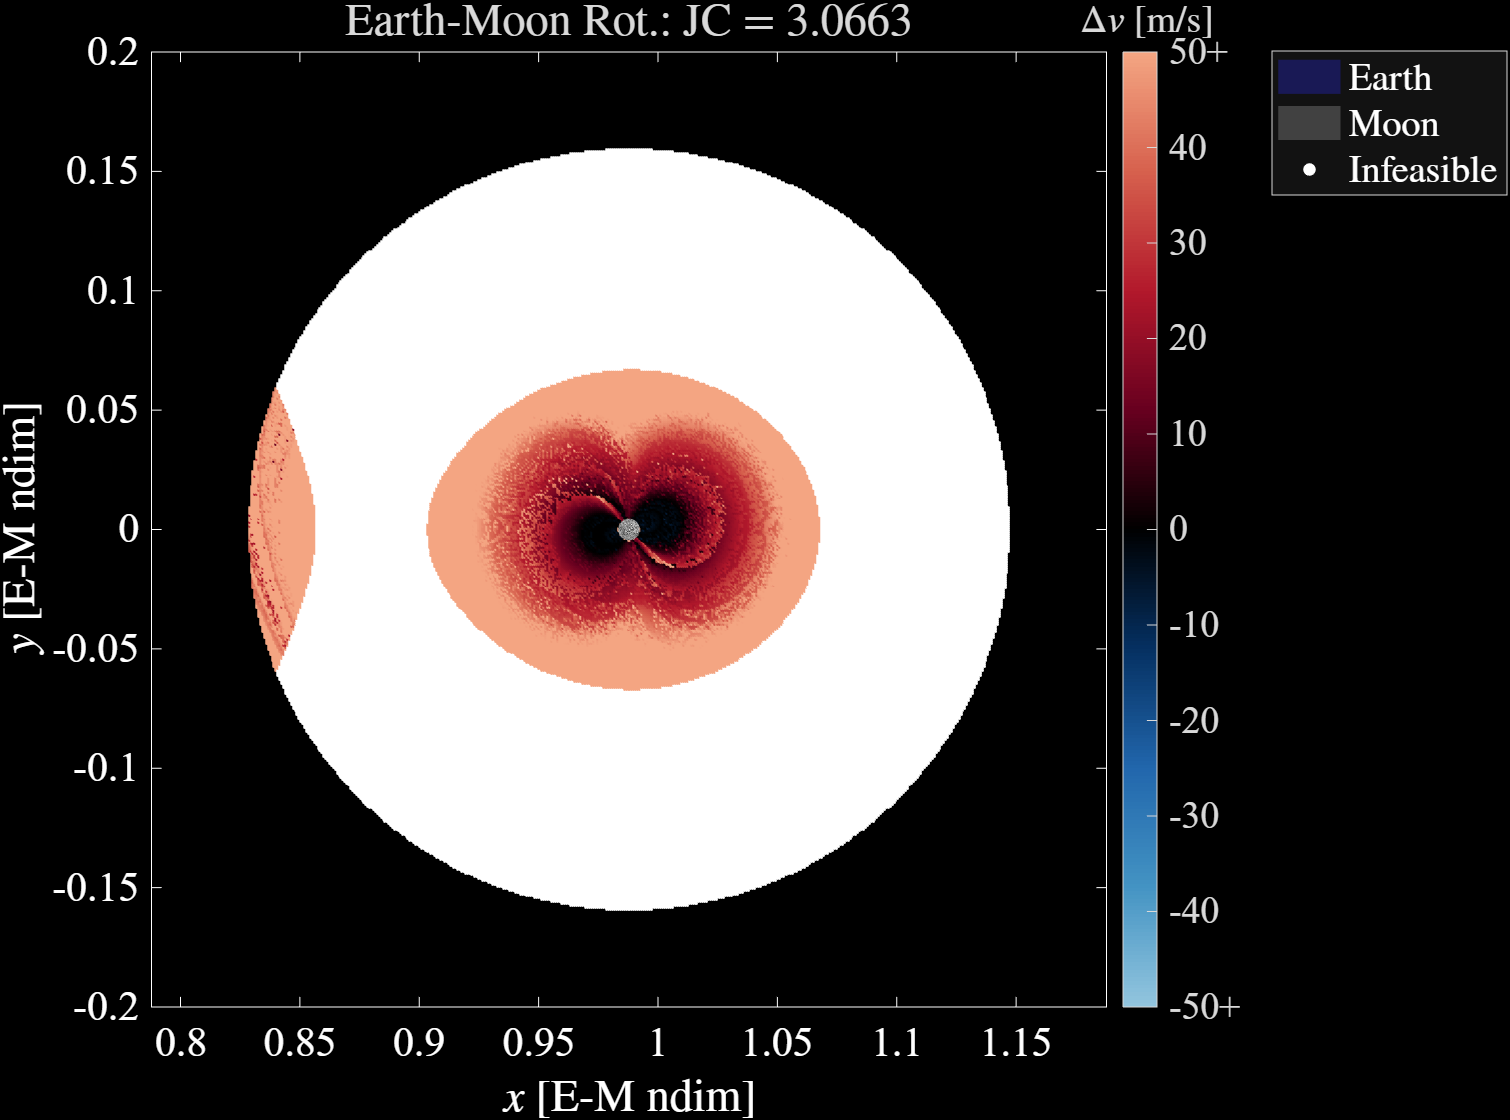
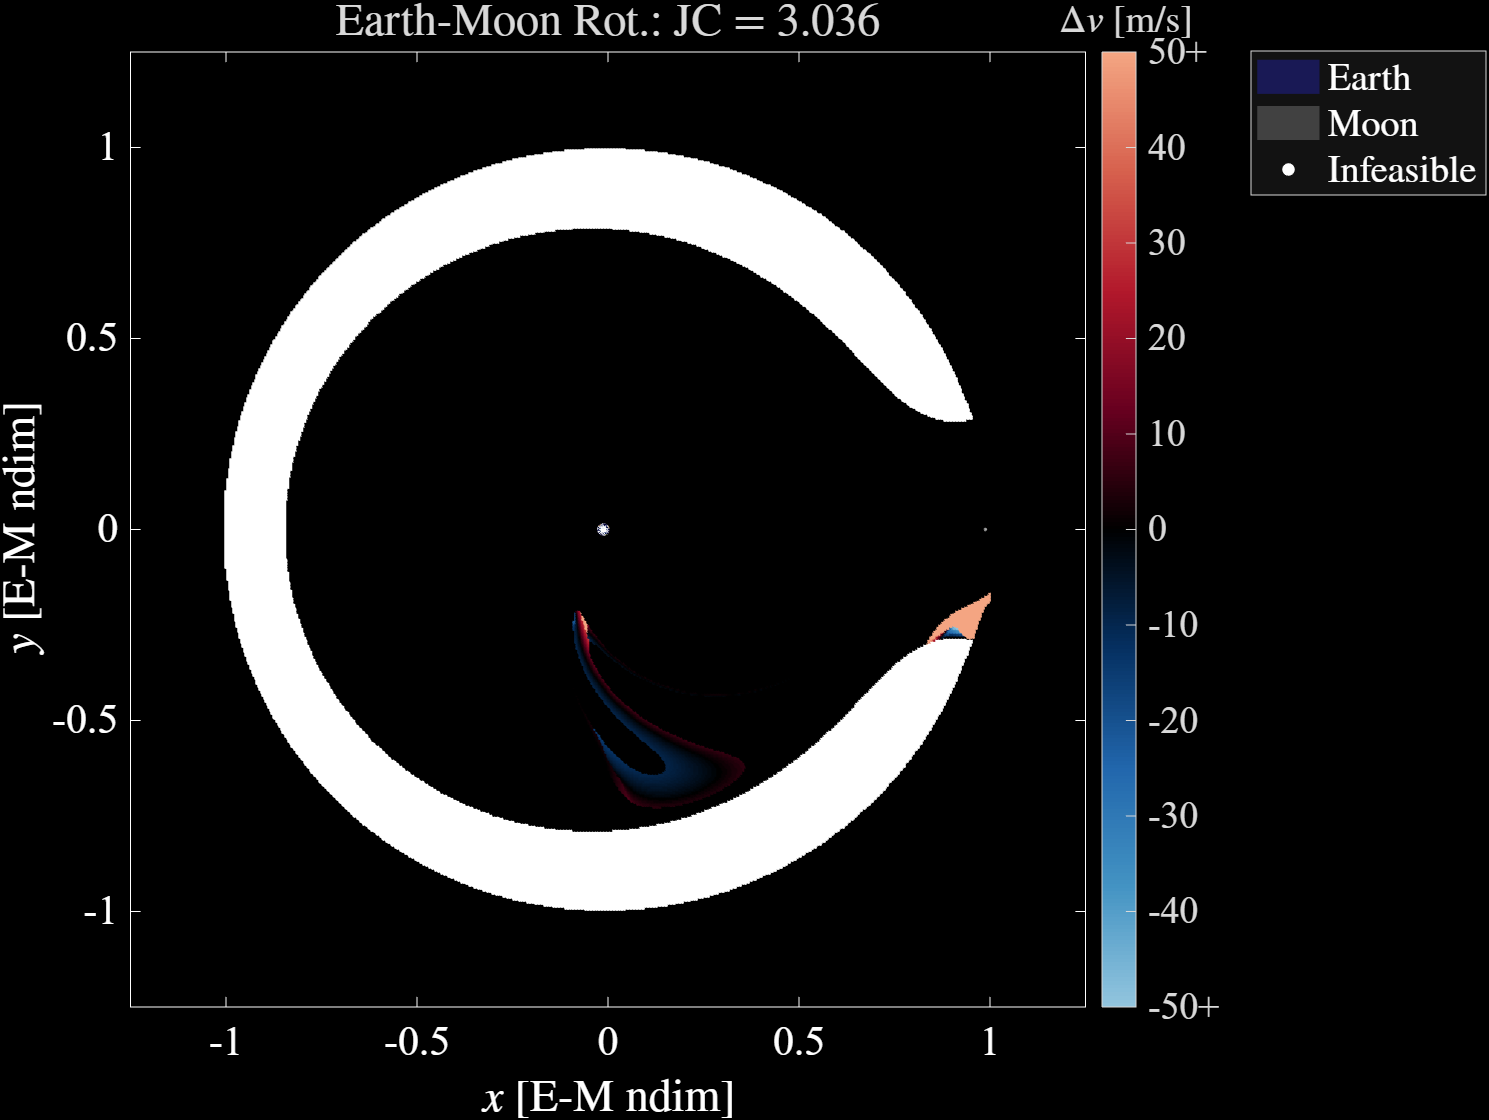
Updated EscapeCR3BP script

diff --git a/EscapeCR3BP.m b/EscapeCR3BP.m
@@ -1,12 +1,12 @@
 %%% EscapeCR3BP.jl
 %%% Jonathan LeFevre Richmond
 %%% C: 16 June 2026
-%%% U: 24 September 2026
+%%% U: 1 October 2026
 
 clear
 
 %% Import Map Data
-mapsData = load('../PhDScripts/Output/ApseMaps/CR3BP_2_peri_retro_500_3.0663.mat');
+mapsData = load('../PhDScripts/Output/ApseMaps/CR3BP_1_peri_pro_500_3.036.mat');
 mapFields = fieldnames(mapsData);
 map = mapsData.(mapFields{1});
 primary = map.primary;
@@ -291,25 +291,221 @@ colorMap(10,:) = [1, 1, 1]; % ZVC
 odeCR3BPEM = @(t,r) ODE_CR3BP(t, r, muEM);
 odeOpts = odeset('RelTol', 1E-12, 'AbsTol', 1E-12);
 
+%% Import Assist Data
+assistOrbitData = load('../PhDScripts/Output/AssistOrbitEscapeCR3BP.mat');
+orbitIC = assistOrbitData.orbitIC;
+orbitP = assistOrbitData.orbitP;
+qOrbits = assistOrbitData.orbitStates;
+qMans = assistOrbitData.manifoldStates;
+t0s = assistOrbitData.initialTimes;
+q0s = assistOrbitData.initialStates;
+
+qPeri0 = assistOrbitData.qPeri0;
+tPeri0 = assistOrbitData.tPeri0;
+Deltav1 = assistOrbitData.Deltav1;
+qPeri1 = assistOrbitData.qPeri1;
+tPeri1 = assistOrbitData.tPeri1;
+JC1 = assistOrbitData.JC1;
+Deltav2 = assistOrbitData.Deltav2;
+qPeri2 = assistOrbitData.qPeri2;
+tPeri2 = assistOrbitData.tPeri2;
+JC2 = assistOrbitData.JC2;
+Deltav3 = assistOrbitData.Deltav3;
+qPeri3 = assistOrbitData.qPeri3;
+tPeri3 = assistOrbitData.tPeri3;
+JC3 = assistOrbitData.JC3;
+Deltav4 = assistOrbitData.Deltav4;
+qPeri4 = assistOrbitData.qPeri4;
+tPeri4 = assistOrbitData.tPeri4;
+
+%% Assist Escape Sample
+sampleIdx = 1;
+solOrbit = ode89(odeCR3BPEM, [0 orbitP], orbitIC, odeOpts);
+
+% tInterp = [0:(0.1*3600*24/tstarEM):(t0s(sampleIdx)+12*pi), t0s(sampleIdx)+12*pi];
+% t0 = [tInterp(tInterp < periTimes(trajIdx)+trajt1), periTimes(trajIdx)+trajt1];
+% t1 = [periTimes(trajIdx)+trajt1, tInterp((tInterp > periTimes(trajIdx)+trajt1) & (tInterp < periTimes(trajIdx)+trajt1+trajt2)), periTimes(trajIdx)+trajt1+trajt2];
+% t15 = [periTimes(trajIdx)+trajt1, tInterp(tInterp > periTimes(trajIdx)+trajt1)];
+% t2 = [periTimes(trajIdx)+trajt1+trajt2, tInterp(tInterp > periTimes(trajIdx)+trajt1+trajt2)];
+
+% solOrbit = ode89(odeCR3BPEM, [0 tOrbit], qOrbit, odeOpts);
+% disp("Initial State: ["+trajq0(1)+", "+trajq0(2)+", "+trajq0(3)+", "+trajq0(4)+", "+trajq0(5)+", "+trajq0(6)+"]")
+% disp("Original departure energy:"+trajEscE)
+% disp("Original departure velocity:"+trajEscv)
+% tau = 12*pi;
+% sol = ode89(odeCR3BPEM, [0 periTimes(trajIdx)+12*pi], initialStates(:,trajIdx), odeOpts);
+% q = deval(sol, tInterp);
+% sol0 = ode89(odeCR3BPEM, [0 periTimes(trajIdx)+trajt1], initialStates(:,trajIdx), odeOpts);
+% q0 = deval(sol0, t0);
+% disp("Delta-v 1: "+trajDeltav1*1000*lstarEM/tstarEM+" m/s")
+% disp("Indirect State: ["+trajq1(1)+", "+trajq1(2)+", "+trajq1(3)+", "+trajq1(4)+", "+trajq1(5)+", "+trajq1(6)+"]")
+% if trajt2 > 0
+%     sol1 = ode89(odeCR3BPEM, [periTimes(trajIdx)+trajt1 periTimes(trajIdx)+trajt1+trajt2], trajq1, odeOpts);
+%     q1 = deval(sol1, t1);
+% end
+% sol15 = ode89(odeCR3BPEM, [periTimes(trajIdx)+trajt1 periTimes(trajIdx)+12*pi], trajq1, odeOpts);
+% q15 = deval(sol15, t15);
+% disp("Delta-v 2: "+trajDeltav2*1000*lstarEM/tstarEM+" m/s")
+% disp("Escape State: ["+trajq2(1)+", "+trajq2(2)+", "+trajq2(3)+", "+trajq2(4)+", "+trajq2(5)+", "+trajq2(6)+"]")
+% sol2 = ode89(odeCR3BPEM, [periTimes(trajIdx)+trajt1+trajt2 periTimes(trajIdx)+12*pi], trajq2, odeOpts);
+% q2 = deval(sol2, t2);
+% disp("New JC: "+trajNewJC)
+% disp("New departure energy:"+trajNewEscE)
+% disp("New departure velocity:"+trajNewEscv)
+% disp("Departure metric:"+(trajNewEscv-trajEscv)/((abs(trajDeltav1)+abs(trajDeltav2))*lstarEM/tstarEM))
+
+solMan = ode89(odeCR3BPEM, [0 t0s(sampleIdx)], qMans(:,sampleIdx), odeOpts);
+solTraj0 = ode89(odeCR3BPEM, [0 12*pi], q0s(:,sampleIdx), odeOpts);
+solArc0 = ode89(odeCR3BPEM, [0 tPeri0], q0s(:,sampleIdx), odeOpts);
+if tPeri1 > 0
+    solArc1 = ode89(odeCR3BPEM, [0 tPeri1], qPeri0, odeOpts);
+end
+solTraj1 = ode89(odeCR3BPEM, [0 12*pi], qPeri1, odeOpts);
+if tPeri2 > 0
+    solArc2 = ode89(odeCR3BPEM, [0 tPeri2], qPeri1, odeOpts);
+end
+solTraj2 = ode89(odeCR3BPEM, [0 12*pi], qPeri2, odeOpts);
+if tPeri3 > 0
+    solArc3 = ode89(odeCR3BPEM, [0 tPeri3], qPeri2, odeOpts);
+end
+solTraj3 = ode89(odeCR3BPEM, [0 12*pi], qPeri3, odeOpts);
+solArc4 = ode89(odeCR3BPEM, [0 tPeri4], qPeri3, odeOpts);
+solTraj4 = ode89(odeCR3BPEM, [0 12*pi], qPeri4, odeOpts);
+
+disp("Delta-v 1: "+Deltav1*1000*lstarEM/tstarEM+" m/s")
+disp("JC 1: "+JC1)
+disp("Delta-v 2: "+Deltav2*1000*lstarEM/tstarEM+" m/s")
+disp("JC 2: "+JC2)
+disp("Delta-v 3: "+Deltav3*1000*lstarEM/tstarEM+" m/s")
+disp("JC 3: "+JC3)
+disp("Delta-v 4: "+Deltav4*1000*lstarEM/tstarEM+" m/s")
+
+% fig18 = figure("Position", [200 100 1200 750]);
+% hold on
+% Earth = plot3DBody("Earth", RE/lstarEM, [-muEM, 0, 0]);
+% set(Earth, 'DisplayName', "Earth")
+% Moon = plot3DBody("Moon", Rm/lstarEM, [1-muEM, 0, 0]);
+% set(Moon, 'DisplayName', "Moon")
+% scatter3(a1EM, 0, 0, 20, 'r', 'filled', 'd', 'DisplayName', "EM $L_{1}$")
+% scatter3(a2EM, 0, 0, 20, [1 0.5 0], 'filled', 'd', 'DisplayName', "EM $L_{2}$")
+% plot3(solOrbit.y(1,:), solOrbit.y(2,:), solOrbit.y(3,:), 'g:', 'DisplayName', "Orbit")
+% % scatter3(qOrbits(1,:), qOrbits(2,:), qOrbits(3,:), 20, 'r', 'filled', 'DisplayName', "Orbit")
+% scatter3(qMans(1,:), qMans(2,:), qMans(3,:), 20, 'r', 'filled', 'DisplayName', "Step-off")
+% scatter3(q0s(1,:), q0s(2,:), q0s(3,:), 20, 'g', 'filled', 'DisplayName', "ICs")
+% axis equal
+% axis([-1.25 1.25 -1.25 1.25])
+% grid on
+% xlabel("$x$ [E-M ndim]", 'Interpreter', 'latex')
+% ylabel("$y$ [E-M ndim]", 'Interpreter', 'latex')
+% title("Earth-Moon Rot.", 'Interpreter', 'latex')
+% leg18 = legend('Location', 'bestoutside', 'Interpreter', 'latex');
+% drawnow;
+% set(leg18.EntryContainer.NodeChildren(end).Icon.Transform.Children.Children, 'ColorData', uint8([25; 25; 85; 255]))
+% set(gca, 'Color', 'k');
+% view(2)
+% hold off
+% ax19 = gca;
+% ax19.SortMethod = 'childorder';
+% % exportgraphics(fig19, 'EscapeCR3BP_19.png','BackgroundColor', 'k')
+
+fig19 = figure("Position", [200 100 1200 750]);
+hold on
+Earth = plot3DBody("Earth", RE/lstarEM, [-muEM, 0, 0]);
+set(Earth, 'DisplayName', "Earth")
+Moon = plot3DBody("Moon", Rm/lstarEM, [1-muEM, 0, 0]);
+set(Moon, 'DisplayName', "Moon")
+scatter3(a1EM, 0, 0, 20, 'r', 'filled', 'd', 'DisplayName', "EM $L_{1}$")
+scatter3(a2EM, 0, 0, 20, [1 0.5 0], 'filled', 'd', 'DisplayName', "EM $L_{2}$")
+% plot3(solOrbit.y(1,:), solOrbit.y(2,:), solOrbit.y(3,:), 'g:', 'DisplayName', "Orbit")
+p191 = plot3WithArrows(solOrbit.y(1,:), solOrbit.y(2,:), solOrbit.y(3,:), 'LineType', ':', 'Color', 'g', 'NumArrows', 2, 'ArrowScale', 5);
+set(p191, 'DisplayName', "Orbit")
+scatter3(qMans(1,sampleIdx), qMans(2,sampleIdx), qMans(3,sampleIdx), 20, 'r', 'filled', 'DisplayName', "Step-off")
+% scatter3(q0s(1,sampleIdx), q0s(2,sampleIdx), q0s(3,sampleIdx), 20, 'g', 'filled', 'DisplayName', "IC")
+% plot3(solMan.y(1,:), solMan.y(2,:), solMan.y(3,:), 'm', 'DisplayName', "Orig. Traj.")
+p192 = plot3WithArrows(solMan.y(1,:), solMan.y(2,:), solMan.y(3,:), 'Color', 'm', 'NumArrows', 2, 'ArrowScale', 5);
+set(p192, 'DisplayName', "Orig. Traj.")
+% % plot3(solTraj0.y(1,:), solTraj0.y(2,:), solTraj0.y(3,:), 'm', 'HandleVisibility', 'off')
+% p193 = plot3WithArrows(solTraj0.y(1,:), solTraj0.y(2,:), solTraj0.y(3,:), 'Color', 'm', 'NumArrows', 10, 'ArrowScale', 1);
+% set(p193, 'HandleVisibility', 'off')
+% plot3(solArc0.y(1,:), solArc0.y(2,:), solArc0.y(3,:), 'm', 'HandleVisibility', 'off')
+p194 = plot3WithArrows(solArc0.y(1,:), solArc0.y(2,:), solArc0.y(3,:), 'Color', 'm', 'NumArrows', 2, 'ArrowScale', 3);
+set(p194, 'HandleVisibility', 'off')
+if tPeri1 > 0
+    % plot3(solArc1.y(1,:), solArc1.y(2,:), solArc1.y(3,:), 'm', 'HandleVisibility', 'off')
+    p195 = plot3WithArrows(solArc1.y(1,:), solArc1.y(2,:), solArc1.y(3,:), 'Color', 'm', 'NumArrows', 2, 'ArrowScale', 3);
+    set(p195, 'HandleVisibility', 'off')
+end
+if tPeri2 > 0
+    plot3(solArc2.y(1,:), solArc2.y(2,:), solArc2.y(3,:), 'b', 'DisplayName', "Esc. Traj.")
+    p196 = plot3WithArrows(solArc2.y(1,:), solArc2.y(2,:), solArc2.y(3,:), 'Color', 'b', 'NumArrows', 5, 'ArrowScale', 1.5);
+    set(p196, 'HandleVisibility', 'off')
+    % plot3(solTraj1.y(1,:), solTraj1.y(2,:), solTraj1.y(3,:), 'b', 'HandleVisibility', 'off')
+    p197 = plot3WithArrows(solTraj1.y(1,:), solTraj1.y(2,:), solTraj1.y(3,:), 'Color', 'b', 'NumArrows', 10, 'ArrowScale', 0.25);
+    set(p197, 'HandleVisibility', 'off')
+end
+if tPeri3 > 0
+    plot3(solArc3.y(1,:), solArc3.y(2,:), solArc3.y(3,:), 'c', 'DisplayName', "Flyby Traj.")
+    % p198 = plot3WithArrows(solArc3.y(1,:), solArc3.y(2,:), solArc3.y(3,:), 'Color', 'c', 'NumArrows', 2, 'ArrowScale', 3);
+    % set(p198, 'HandleVisibility', 'off')
+    % plot3(solTraj2.y(1,:), solTraj2.y(2,:), solTraj2.y(3,:), 'c', 'HandleVisibility', 'off')
+    p199 = plot3WithArrows(solTraj2.y(1,:), solTraj2.y(2,:), solTraj2.y(3,:), 'Color', 'c', 'NumArrows', 10, 'ArrowScale', 0.25);
+    set(p199, 'HandleVisibility', 'off')
+end
+plot3(solArc4.y(1,:), solArc4.y(2,:), solArc4.y(3,:), 'y', 'DisplayName', "Closer Flyby Traj.")
+% plot3(solTraj3.y(1,:), solTraj3.y(2,:), solTraj3.y(3,:), 'y', 'HandleVisibility', 'off')
+p1911 = plot3WithArrows(solTraj3.y(1,:), solTraj3.y(2,:), solTraj3.y(3,:), 'Color', 'y', 'NumArrows', 10, 'ArrowScale', 0.15);
+set(p1911, 'HandleVisibility', 'off')
+% plot3(solTraj4.y(1,:), solTraj4.y(2,:), solTraj4.y(3,:), 'g', 'DisplayName', "Final Traj.")
+p1912 = plot3WithArrows(solTraj4.y(1,:), solTraj4.y(2,:), solTraj4.y(3,:), 'Color', 'g', 'NumArrows', 10, 'ArrowScale', 0.05);
+set(p1912, 'DisplayName', "Final Traj.")
+% scatter3(qPeri0(1), qPeri0(2), qPeri0(3), 20, 'y', 'filled', 'DisplayName', "Peri. 0")
+if abs(Deltav1) > 0
+    scatter3(qPeri1(1), qPeri1(2), qPeri1(3), 50, 'w', 'filled', '^', 'DisplayName', "Man. 1")
+end
+if abs(Deltav2) > 0
+    scatter3(qPeri2(1), qPeri2(2), qPeri2(3), 50, 'w', 'filled', 's', 'DisplayName', "Man. 2")
+end
+if abs(Deltav3) > 0
+    scatter3(qPeri3(1), qPeri3(2), qPeri3(3), 50, 'w', 'filled', '*', 'DisplayName', "Man. 3")
+end
+if abs(Deltav4) > 0
+    scatter3(qPeri4(1), qPeri4(2), qPeri4(3), 50, 'w', 'filled', 'd', 'DisplayName', "Man. 4")
+end
+axis equal
+% axis([-1.25 1.25 -1.25 1.25])
+grid on
+xlabel("$x$ [E-M ndim]", 'Interpreter', 'latex')
+ylabel("$y$ [E-M ndim]", 'Interpreter', 'latex')
+title("Earth-Moon Rot.", 'Interpreter', 'latex')
+leg19 = legend('Location', 'bestoutside', 'Interpreter', 'latex');
+drawnow;
+set(leg19.EntryContainer.NodeChildren(end).Icon.Transform.Children.Children, 'ColorData', uint8([25; 25; 85; 255]))
+set(gca, 'Color', 'k');
+view(2)
+hold off
+ax19 = gca;
+ax19.SortMethod = 'childorder';
+% exportgraphics(fig19, 'EscapeCR3BP_19.png','BackgroundColor', 'k')
+
 %% Test Trajectory
-% xSample = 0.916908;
-% ySample = 0.0757515;
+% xSample = 0.940154;
+% ySample = -0.0476954;
 % idx = find((abs(xGrid-xSample) < 1E-5) & (abs(yGrid-ySample) < 1E-5))
 % Perigee
 % idx = 46420 % Direct
 % idx = 124010 % Indirect
 % idx = 133530 % Failure
 % Perilune
-idx = 49642 % Direct
+% idx = 49642 % Direct
 % idx = 113252 % Indirect
 % idx = 98165 % Failure
 
-% % q = map.q(:,idx);
-% q = initialStates(:,trajIdx);
+% q = map.q(:,idx);
+% % q = initialStates(:,trajIdx);
 % disp("Sample IC: ["+q(1)+", "+q(2)+", "+q(3)+", "+q(4)+", "+q(5)+", "+q(6)+"]")
-% tau = 4*pi;
+% tau = -2*pi;
 % sol = ode89(odeCR3BPEM, [0 tau], q, odeOpts);
-% 
+
 % fig2 = figure("Position", [200 100 1200 750]);
 % hold on
 % Earth = plot3DBody("Earth", RE/lstarEM, [-muEM, 0, 0]);
@@ -829,17 +1025,17 @@ idx = 49642 % Direct
 %% Escape Analysis
 % fig8 = figure("Position", [200 100 1200 750]);
 % hold on
-% % scatter(Deltav2s.*1000.*lstarEM./tstarEM, escvs, 20, 'filled', 'DisplayName', "Direct")
+% scatter(Deltav2s.*1000.*lstarEM./tstarEM, escvs, 20, 'filled', 'DisplayName', "Direct")
 % % scatter(Deltav2bs.*1000.*lstarEM./tstarEM, escvbs, 20, 'filled', 'DisplayName', "Indirect")
-% scatter(Deltav2s.*1000.*lstarEM./tstarEM, gammas, 20, 'filled', 'DisplayName', "Direct")
+% % scatter(Deltav2s.*1000.*lstarEM./tstarEM, gammas, 20, 'filled', 'DisplayName', "Direct")
 % % scatter(Deltav2bs.*1000.*lstarEM./tstarEM, gammabs, 20, 'filled', 'DisplayName', "Indirect")
 % % scatter(Deltav2s.*1000.*lstarEM./tstarEM, DeltaEs, 20, 'filled', 'HandleVisibility', 'off')
 % % scatter(Deltav2s.*1000.*lstarEM./tstarEM, flybys, 20, 'filled', 'HandleVisibility', 'off')
 % % ylim([-60 60])
 % xlabel("$\Delta v_{2}$ [m/s]", 'Interpreter', 'latex')
 % % xlabel("JC", 'Interpreter', 'latex')
-% % ylabel("$\mathcal{v}_{dep}$ [km/s]", 'Interpreter', 'latex')
-% ylabel("$\gamma_{esc}$", 'Interpreter', 'latex')
+% ylabel("$\mathcal{v}_{dep}$ [km/s]", 'Interpreter', 'latex')
+% % ylabel("$\gamma_{esc}$", 'Interpreter', 'latex')
 % % ylabel("$d\mathcal{E}_{esc}/d\alpha$ [km/s]", 'Interpreter', 'latex')
 % % ylabel("$r_{p}$ [km]", 'Interpreter', 'latex')
 % title("Maneuver Optimization", 'Interpreter', 'latex')
@@ -859,19 +1055,25 @@ idx = 49642 % Direct
 % solOrig = ode89(odeCR3BPEM, [0 tauOrig], qOrig, odeOpts);
 % 
 % % % Deltav1
-% q1 = qMan;
-% disp("Delta-v 1: "+Deltav1*1000*lstarEM/tstarEM+" m/s")
-% disp("Maneuver 1 state: ["+q1(1)+", "+q1(2)+", "+q1(3)+", "+q1(4)+", "+q1(5)+", "+q1(6)+"]")
-% tauAssist1 = 10*pi;
-% solAssist1 = ode89(odeCR3BPEM, [0 tauAssist1], q1, odeOpts);
+% % q1 = qMan;
+% % disp("Delta-v 1: "+Deltav1*1000*lstarEM/tstarEM+" m/s")
+% % disp("Maneuver 1 state: ["+q1(1)+", "+q1(2)+", "+q1(3)+", "+q1(4)+", "+q1(5)+", "+q1(6)+"]")
+% % tauAssist1 = 10*pi;
+% % solAssist1 = ode89(odeCR3BPEM, [0 tauAssist1], q1, odeOpts);
 % 
-% % % Deltav2
-% % q2 = qMan;
-% % Deltav2 = 1000*tstarEM/1000/lstarEM;
-% % disp("Delta-v 2: "+Deltav2*1000*lstarEM/tstarEM+" m/s")
-% % disp("Maneuver 2 state: ["+q2(1)+", "+q2(2)+", "+q2(3)+", "+q2(4)+", "+q2(5)+", "+q2(6)+"]")
-% % tauAssist2 = 2*pi;
-% % solAssist2 = ode89(odeCR3BPEM, [0 tauAssist2], q2, odeOpts);
+% % Deltav2
+% q2 = qMan;
+% Deltav2 = 1000*tstarEM/1000/lstarEM;
+% % q2 = qOrig;
+% % Deltav2 = Deltav2s(24)+0.1;
+% % v2Mag = norm(q2(4:6));
+% % vhat2 = q2(4:6)./v2Mag;
+% % v2MagNew = v2Mag+Deltav2;
+% % q2(4:6) = vhat2.*v2MagNew;
+% disp("Delta-v 2: "+Deltav2*1000*lstarEM/tstarEM+" m/s")
+% disp("Maneuver 2 state: ["+q2(1)+", "+q2(2)+", "+q2(3)+", "+q2(4)+", "+q2(5)+", "+q2(6)+"]")
+% tauAssist2 = 12*pi;
+% solAssist2 = ode89(odeCR3BPEM, [0 tauAssist2], q2, odeOpts);
 % 
 % disp("New JC: "+newJC)
 % disp("New departure energy:"+newEscE)
@@ -890,12 +1092,12 @@ idx = 49642 % Direct
 % % p91 = plot3WithArrows(solOrig.y(1,:), solOrig.y(2,:), solOrig.y(3,:), 'Color', colorMap(flags(idx)+1,:));
 % % set(p91, 'DisplayName', "Original Traj.")
 % plot3(solOrig.y(1,:), solOrig.y(2,:), solOrig.y(3,:), 'Color', colorMap(flags(idx)+1,:), 'DisplayName', "Original Traj.")
-% % p92 = plot3WithArrows(solAssist1.y(1,:), solAssist1.y(2,:), solAssist1.y(3,:), 'b');
-% % set(p92, 'DisplayName', "Assisted Traj.")
-% plot3(solAssist1.y(1,:), solAssist1.y(2,:), solAssist1.y(3,:), 'b', 'DisplayName', "Assisted Traj.")
-% % % p93 = plot3WithArrows(solAssist2.y(1,:), solAssist2.y(2,:), solAssist2.y(3,:), 'b');
-% % % set(p93, 'DisplayName', "Assisted Traj.")
-% % plot3(solAssist2.y(1,:), solAssist2.y(2,:), solAssist2.y(3,:), 'b', 'DisplayName', "Assisted Traj.")
+% % % p92 = plot3WithArrows(solAssist1.y(1,:), solAssist1.y(2,:), solAssist1.y(3,:), 'b');
+% % % set(p92, 'DisplayName', "Assisted Traj.")
+% % plot3(solAssist1.y(1,:), solAssist1.y(2,:), solAssist1.y(3,:), 'b', 'DisplayName', "Assisted Traj.")
+% % p93 = plot3WithArrows(solAssist2.y(1,:), solAssist2.y(2,:), solAssist2.y(3,:), 'b');
+% % set(p93, 'DisplayName', "Assisted Traj.")
+% plot3(solAssist2.y(1,:), solAssist2.y(2,:), solAssist2.y(3,:), 'b', 'DisplayName', "Assisted Traj.")
 % axis equal
 % if primary == "Moon"
 %     axis([1-muEM-0.2 1-muEM+0.2 -0.2 0.2])
